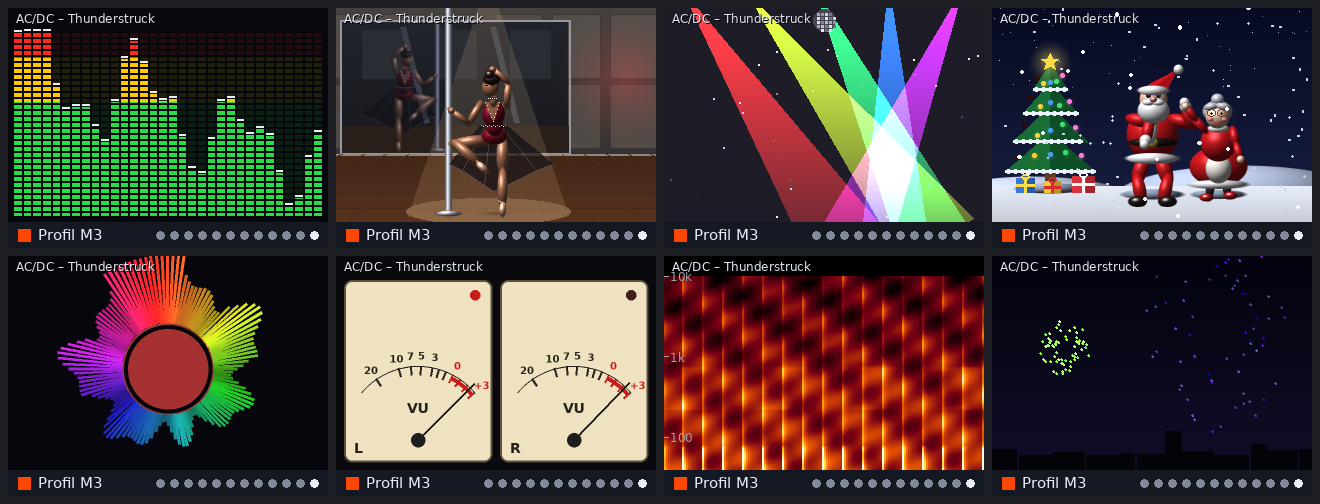
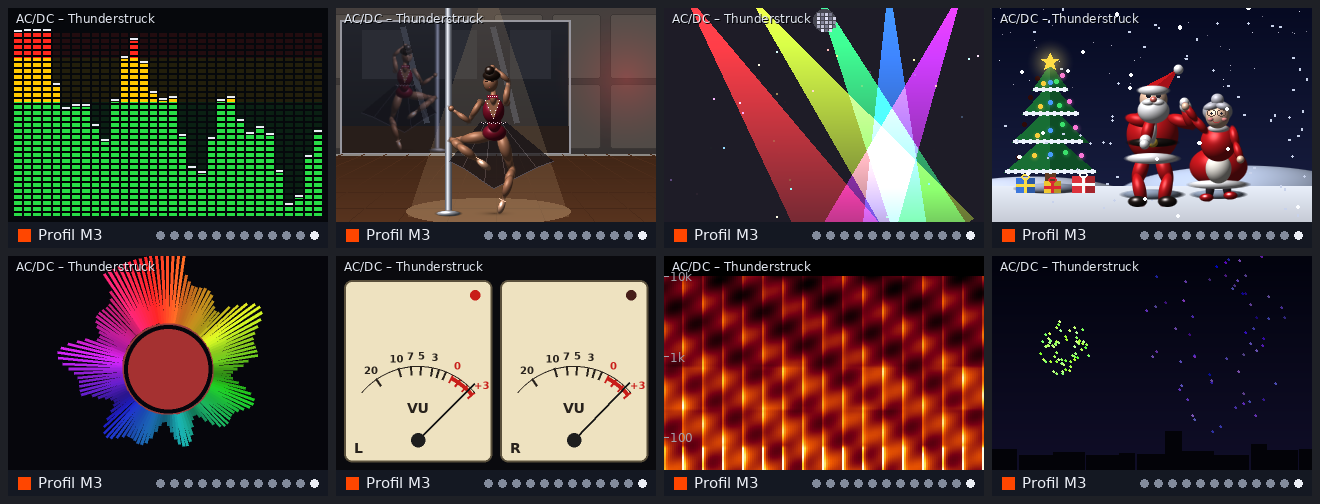
Tänzerin: natürlichere Proportionen (2026.11.07-10)
Längere Beine, schmalere Taille, längerer Hals, kleinerer Kopf; Glieder
verjüngen sich über _taper (schmales Glied + kräftiger Teil, ohne
Streifen). Kleidung, Haltungen und Figuren unverändert. Referenzbilder der
Tänzerin und README-Kachel neu.

Claude-Session: https://claude.ai/code/session_01Ad6TXmUbWdNx5UPRN4zbFk

Changed region(s): [[0.2795, 0.1488, 0.4348, 0.4167]]

diff --git a/dist/g19s.py b/dist/g19s.py
@@ -40,7 +40,7 @@ import numpy as np
 from PIL import Image, ImageChops, ImageDraw, ImageFont
 
 G19S_COMPONENT = "driver"     # Kennung für den Update-Knopf der Verwaltung
-VERSION = "2026.11.07-9"
+VERSION = "2026.11.07-10"
 
 # Weitere Importe der Module
 import select
@@ -12399,7 +12399,7 @@ BAL_LEO = (128, 16, 40)                 # Samttrikot (Option color ersetzt es)
 BAL_SKIRT = (16, 14, 20)
 BAL_SHOE = (212, 158, 126)
 BAL_HAIR = (38, 24, 18)
-BAL_TORSO, BAL_UA, BAL_FA, BAL_TH, BAL_SH = 38, 22, 21, 33, 33
+BAL_TORSO, BAL_UA, BAL_FA, BAL_TH, BAL_SH = 37, 22, 21, 35, 34    # ≈ 7,5 Kopflängen, lange Beine
 BAL_MIRROR = (6, 14, 232, BAL_FLOOR - 58)   # Spiegelwand x0, y0, x1, y1
 BAL_SPIN = 2.6                          # Sekunden für eine Drehung um die Stange
 # Haltungen: Hände relativ zur Schulter (lp/rp = Anteil „Hand an der Stange“), Füße relativ zum Hüftgelenk,
@@ -12557,8 +12557,10 @@ class BalletVisual:
             hj = (hx + side * 7, hy + 2)
             tx, ty = pose[f]
             knee, foot = _ik(hj, (hj[0] + tx, hj[1] + ty), BAL_TH, BAL_SH, pose[b])
-            self._limb(img, hj, knee, 12, BAL_SKIN, gloss=0.5)
-            self._limb(img, knee, foot, 10, BAL_SKIN, gloss=0.5)
+            self._taper(img, hj, knee, 12, 8, BAL_SKIN)               # Oberschenkel verjüngt sich zum Knie
+            calf = (knee[0] + (foot[0] - knee[0]) * 0.32, knee[1] + (foot[1] - knee[1]) * 0.32)
+            self._taper(img, knee, calf, 8, 9, BAL_SKIN)              # Wade leicht gerundet
+            self._taper(img, calf, foot, 9, 5, BAL_SKIN)              # schlanke Fessel
             dx, dy = foot[0] - knee[0], foot[1] - knee[1]
             n = math.hypot(dx, dy) or 1
             point = pose["rise"] > 0.5 or sitting or ty < 40      # auf der Spitze: Fuß verlängert das Bein
@@ -12566,11 +12568,11 @@ class BalletVisual:
             self._limb(img, foot, tip, 7, BAL_SHOE, gloss=0.9)
             d.line([(foot[0] - 3, foot[1] - 4), (foot[0] + 3, foot[1] - 1)], fill=(236, 190, 160))   # Bänder
             feet.append(tip)
-        self._blob(img, hx, hy - 2, 26, 18, leo, gloss=0.6)         # Becken im Trikot
+        self._blob(img, hx, hy - 2, 24, 17, leo, gloss=0.6)         # Becken im Trikot
         chest = (hx + math.sin(lean) * 22, hy - 24)
         neck = (hx + math.sin(lean) * BAL_TORSO, hy - BAL_TORSO * math.cos(lean))
-        self._blob(img, (hx + chest[0]) / 2, (hy + chest[1]) / 2, 17, 22, leo, ang=math.degrees(lean), gloss=0.6)
-        self._blob(img, chest[0], chest[1], 23, 28, leo, ang=math.degrees(lean), gloss=0.7)     # Brustkorb
+        self._blob(img, (hx + chest[0]) / 2, (hy + chest[1]) / 2, 14, 20, leo, ang=math.degrees(lean), gloss=0.6)  # Taille
+        self._blob(img, chest[0], chest[1], 22, 27, leo, ang=math.degrees(lean), gloss=0.7)     # Brustkorb
         d.polygon([(neck[0] - 7, neck[1] + 3), (neck[0] + 7, neck[1] + 3), (chest[0], chest[1] + 8)],
                   fill=tuple(int(c * 0.8) for c in BAL_SKIN))       # transparenter V-Einsatz
         for k in range(6):                                          # Glitzersteine: V-Ausschnitt und Gürtel
@@ -12591,18 +12593,18 @@ class BalletVisual:
             if pose[p] > 0:                                         # Hand an der Stange
                 tgt = (tgt[0] + (pole_x + 3 - tgt[0]) * pose[p], tgt[1])
             elbow, hand = _ik(sh, tgt, BAL_UA, BAL_FA, side)
-            self._blob(img, sh[0], sh[1], 9, 9, BAL_SKIN, gloss=0.5)     # Schulter (Trikot ärmellos)
-            self._limb(img, sh, elbow, 8, BAL_SKIN, gloss=0.5)
-            self._limb(img, elbow, hand, 7, BAL_SKIN, gloss=0.5)
-            self._blob(img, hand[0], hand[1], 7, 7, BAL_SKIN, gloss=0.4)
+            self._blob(img, sh[0], sh[1], 8, 8, BAL_SKIN, gloss=0.5)     # Schulter (Trikot ärmellos)
+            self._taper(img, sh, elbow, 7, 5.5, BAL_SKIN)             # Oberarm
+            self._taper(img, elbow, hand, 5.5, 4, BAL_SKIN)           # Unterarm, zartes Handgelenk
+            self._blob(img, hand[0], hand[1], 6, 6, BAL_SKIN, gloss=0.4)
             hands.append(hand)
-        self._limb(img, (neck[0], neck[1] + 4), (neck[0], neck[1] - 6), 8, BAL_SKIN, gloss=0.4)
+        self._taper(img, (neck[0], neck[1] + 4), (neck[0], neck[1] - 9), 7, 5.5, BAL_SKIN)        # langer Hals
         d.line([(neck[0] - 5, neck[1] - 1), (neck[0] + 5, neck[1] - 1)], fill=leo, width=3)   # Halsband
         for k in range(-2, 3):
             d.point((neck[0] + k * 2, neck[1] - 1), fill=(255, 240, 250))
         hd = math.radians(pose["head"] + pose["lean"])
-        head = (neck[0] + math.sin(hd) * 10, neck[1] - 13)
-        self._blob(img, head[0], head[1], 17, 21, BAL_SKIN, gloss=0.4)
+        head = (neck[0] + math.sin(hd) * 11, neck[1] - 15)
+        self._blob(img, head[0], head[1], 15, 19, BAL_SKIN, gloss=0.4)
         self._blob(img, head[0] - math.sin(hd) * 2, head[1] - 7, 18, 11, hair, gloss=0.7)     # Haar
         self._blob(img, head[0] - math.sin(hd) * 4 - 2, head[1] - 12, 10, 9, hair, gloss=0.8)  # Dutt
         ex = head[0] + math.sin(hd) * 3
@@ -12610,6 +12612,16 @@ class BalletVisual:
             d.line([(ex + side * 3 - 1, head[1] - 1), (ex + side * 3 + 1, head[1] - 1)], fill=(40, 24, 20))
         d.point((ex, head[1] + 5), fill=(150, 60, 60))
         return head, hands, feet
+
+    def _taper(self, img, p1, p2, w1, w2, color):
+        """Glied, das sich von Breite w1 auf w2 verjüngt: das ganze Glied in der schmalen Breite, darüber der kräftige
+        Teil zur dicken Seite hin (weit überlappend, wenig Glanz – keine sichtbaren Streifen)."""
+        thin, thick = (p2, p1) if w1 >= w2 else (p1, p2)
+        wt, wk = min(w1, w2), max(w1, w2)
+        self._limb(img, p1, p2, wt, color, gloss=0.25)
+        if wk - wt > 0.6:
+            mid = (thick[0] + (thin[0] - thick[0]) * 0.6, thick[1] + (thin[1] - thick[1]) * 0.6)
+            self._limb(img, thick, mid, wk, color, gloss=0.25)
 
     # -- Rock: Saum mit Trägheit -------------------------------------------- #
     def _bal_skirt(self, st, hip, lean, dt, flare, swirl, sitting):

diff --git a/src/treiber/seite_visual_ballett.py b/src/treiber/seite_visual_ballett.py
@@ -15,7 +15,7 @@ BAL_LEO = (128, 16, 40)                 # Samttrikot (Option color ersetzt es)
 BAL_SKIRT = (16, 14, 20)
 BAL_SHOE = (212, 158, 126)
 BAL_HAIR = (38, 24, 18)
-BAL_TORSO, BAL_UA, BAL_FA, BAL_TH, BAL_SH = 38, 22, 21, 33, 33
+BAL_TORSO, BAL_UA, BAL_FA, BAL_TH, BAL_SH = 37, 22, 21, 35, 34    # ≈ 7,5 Kopflängen, lange Beine
 BAL_MIRROR = (6, 14, 232, BAL_FLOOR - 58)   # Spiegelwand x0, y0, x1, y1
 BAL_SPIN = 2.6                          # Sekunden für eine Drehung um die Stange
 # Haltungen: Hände relativ zur Schulter (lp/rp = Anteil „Hand an der Stange“), Füße relativ zum Hüftgelenk,
@@ -173,8 +173,10 @@ class BalletVisual:
             hj = (hx + side * 7, hy + 2)
             tx, ty = pose[f]
             knee, foot = _ik(hj, (hj[0] + tx, hj[1] + ty), BAL_TH, BAL_SH, pose[b])
-            self._limb(img, hj, knee, 12, BAL_SKIN, gloss=0.5)
-            self._limb(img, knee, foot, 10, BAL_SKIN, gloss=0.5)
+            self._taper(img, hj, knee, 12, 8, BAL_SKIN)               # Oberschenkel verjüngt sich zum Knie
+            calf = (knee[0] + (foot[0] - knee[0]) * 0.32, knee[1] + (foot[1] - knee[1]) * 0.32)
+            self._taper(img, knee, calf, 8, 9, BAL_SKIN)              # Wade leicht gerundet
+            self._taper(img, calf, foot, 9, 5, BAL_SKIN)              # schlanke Fessel
             dx, dy = foot[0] - knee[0], foot[1] - knee[1]
             n = math.hypot(dx, dy) or 1
             point = pose["rise"] > 0.5 or sitting or ty < 40      # auf der Spitze: Fuß verlängert das Bein
@@ -182,11 +184,11 @@ class BalletVisual:
             self._limb(img, foot, tip, 7, BAL_SHOE, gloss=0.9)
             d.line([(foot[0] - 3, foot[1] - 4), (foot[0] + 3, foot[1] - 1)], fill=(236, 190, 160))   # Bänder
             feet.append(tip)
-        self._blob(img, hx, hy - 2, 26, 18, leo, gloss=0.6)         # Becken im Trikot
+        self._blob(img, hx, hy - 2, 24, 17, leo, gloss=0.6)         # Becken im Trikot
         chest = (hx + math.sin(lean) * 22, hy - 24)
         neck = (hx + math.sin(lean) * BAL_TORSO, hy - BAL_TORSO * math.cos(lean))
-        self._blob(img, (hx + chest[0]) / 2, (hy + chest[1]) / 2, 17, 22, leo, ang=math.degrees(lean), gloss=0.6)
-        self._blob(img, chest[0], chest[1], 23, 28, leo, ang=math.degrees(lean), gloss=0.7)     # Brustkorb
+        self._blob(img, (hx + chest[0]) / 2, (hy + chest[1]) / 2, 14, 20, leo, ang=math.degrees(lean), gloss=0.6)  # Taille
+        self._blob(img, chest[0], chest[1], 22, 27, leo, ang=math.degrees(lean), gloss=0.7)     # Brustkorb
         d.polygon([(neck[0] - 7, neck[1] + 3), (neck[0] + 7, neck[1] + 3), (chest[0], chest[1] + 8)],
                   fill=tuple(int(c * 0.8) for c in BAL_SKIN))       # transparenter V-Einsatz
         for k in range(6):                                          # Glitzersteine: V-Ausschnitt und Gürtel
@@ -207,18 +209,18 @@ class BalletVisual:
             if pose[p] > 0:                                         # Hand an der Stange
                 tgt = (tgt[0] + (pole_x + 3 - tgt[0]) * pose[p], tgt[1])
             elbow, hand = _ik(sh, tgt, BAL_UA, BAL_FA, side)
-            self._blob(img, sh[0], sh[1], 9, 9, BAL_SKIN, gloss=0.5)     # Schulter (Trikot ärmellos)
-            self._limb(img, sh, elbow, 8, BAL_SKIN, gloss=0.5)
-            self._limb(img, elbow, hand, 7, BAL_SKIN, gloss=0.5)
-            self._blob(img, hand[0], hand[1], 7, 7, BAL_SKIN, gloss=0.4)
+            self._blob(img, sh[0], sh[1], 8, 8, BAL_SKIN, gloss=0.5)     # Schulter (Trikot ärmellos)
+            self._taper(img, sh, elbow, 7, 5.5, BAL_SKIN)             # Oberarm
+            self._taper(img, elbow, hand, 5.5, 4, BAL_SKIN)           # Unterarm, zartes Handgelenk
+            self._blob(img, hand[0], hand[1], 6, 6, BAL_SKIN, gloss=0.4)
             hands.append(hand)
-        self._limb(img, (neck[0], neck[1] + 4), (neck[0], neck[1] - 6), 8, BAL_SKIN, gloss=0.4)
+        self._taper(img, (neck[0], neck[1] + 4), (neck[0], neck[1] - 9), 7, 5.5, BAL_SKIN)        # langer Hals
         d.line([(neck[0] - 5, neck[1] - 1), (neck[0] + 5, neck[1] - 1)], fill=leo, width=3)   # Halsband
         for k in range(-2, 3):
             d.point((neck[0] + k * 2, neck[1] - 1), fill=(255, 240, 250))
         hd = math.radians(pose["head"] + pose["lean"])
-        head = (neck[0] + math.sin(hd) * 10, neck[1] - 13)
-        self._blob(img, head[0], head[1], 17, 21, BAL_SKIN, gloss=0.4)
+        head = (neck[0] + math.sin(hd) * 11, neck[1] - 15)
+        self._blob(img, head[0], head[1], 15, 19, BAL_SKIN, gloss=0.4)
         self._blob(img, head[0] - math.sin(hd) * 2, head[1] - 7, 18, 11, hair, gloss=0.7)     # Haar
         self._blob(img, head[0] - math.sin(hd) * 4 - 2, head[1] - 12, 10, 9, hair, gloss=0.8)  # Dutt
         ex = head[0] + math.sin(hd) * 3
@@ -226,6 +228,16 @@ class BalletVisual:
             d.line([(ex + side * 3 - 1, head[1] - 1), (ex + side * 3 + 1, head[1] - 1)], fill=(40, 24, 20))
         d.point((ex, head[1] + 5), fill=(150, 60, 60))
         return head, hands, feet
+
+    def _taper(self, img, p1, p2, w1, w2, color):
+        """Glied, das sich von Breite w1 auf w2 verjüngt: das ganze Glied in der schmalen Breite, darüber der kräftige
+        Teil zur dicken Seite hin (weit überlappend, wenig Glanz – keine sichtbaren Streifen)."""
+        thin, thick = (p2, p1) if w1 >= w2 else (p1, p2)
+        wt, wk = min(w1, w2), max(w1, w2)
+        self._limb(img, p1, p2, wt, color, gloss=0.25)
+        if wk - wt > 0.6:
+            mid = (thick[0] + (thin[0] - thick[0]) * 0.6, thick[1] + (thin[1] - thick[1]) * 0.6)
+            self._limb(img, thick, mid, wk, color, gloss=0.25)
 
     # -- Rock: Saum mit Trägheit -------------------------------------------- #
     def _bal_skirt(self, st, hip, lean, dt, flare, swirl, sitting):

diff --git a/dist/g19s-gui.py b/dist/g19s-gui.py
@@ -40,7 +40,7 @@ import urllib.parse
 import urllib.request
 
 G19S_COMPONENT = "gui"        # Kennung für den Update-Knopf
-VERSION = "2026.11.07-9"
+VERSION = "2026.11.07-10"
 
 HERE = os.path.dirname(os.path.realpath(__file__))
 SERVICE = "g19s.service"

diff --git a/src/verwaltung/server/kopf.py b/src/verwaltung/server/kopf.py
@@ -40,7 +40,7 @@ import urllib.parse
 import urllib.request
 
 G19S_COMPONENT = "gui"        # Kennung für den Update-Knopf
-VERSION = "2026.11.07-9"
+VERSION = "2026.11.07-10"
 
 HERE = os.path.dirname(os.path.realpath(__file__))
 SERVICE = "g19s.service"

diff --git a/src/treiber/kopf.py b/src/treiber/kopf.py
@@ -40,4 +40,4 @@ import numpy as np
 from PIL import Image, ImageChops, ImageDraw, ImageFont
 
 G19S_COMPONENT = "driver"     # Kennung für den Update-Knopf der Verwaltung
-VERSION = "2026.11.07-9"
+VERSION = "2026.11.07-10"

diff --git a/NEUIGKEITEN.md b/NEUIGKEITEN.md
@@ -3,6 +3,9 @@
 Was sich je Version geändert hat. Der Abschnitt einer Version erscheint in der Verwaltung unter
 „Nach Updates suchen → Was ist neu“ und als Text des GitHub-Releases.
 
+## 2026.11.07-10
+- Tänzerin an der Stange: natürlichere Proportionen – längere Beine, schmalere Taille, längerer Hals, etwas kleinerer Kopf; Ober- und Unterschenkel sowie Arme verjüngen sich (Knie, Fesseln, Handgelenke schlank, Wade leicht gerundet), keine sichtbaren „Gelenkkugeln“ mehr. Trikot, Rock, Haltungen und Figuren bleiben.
+
 ## 2026.11.07-9
 - Tänzerin an der Stange: **mehr Figuren an der Stange** – alle 8 Schläge kommt die nächste: Fireman Spin (mit angezogenen Beinen um die Stange), Pirouette, Hook (Bein um die Stange gehakt, hinausschwingen), Chair Spin, Klettern mit Pole Sit, Körperwelle an der Stange, Seitspagat im Stand; wird die Musik deutlich lauter, zusätzlich die Drehung um die Stange.
 - **Haarfarbe** im Optionsmenü wählbar: Dunkelbraun, Schwarz, Braun, Kupfer, Rot, Blond, Platinblond, Silbergrau, Pink, Blau.
